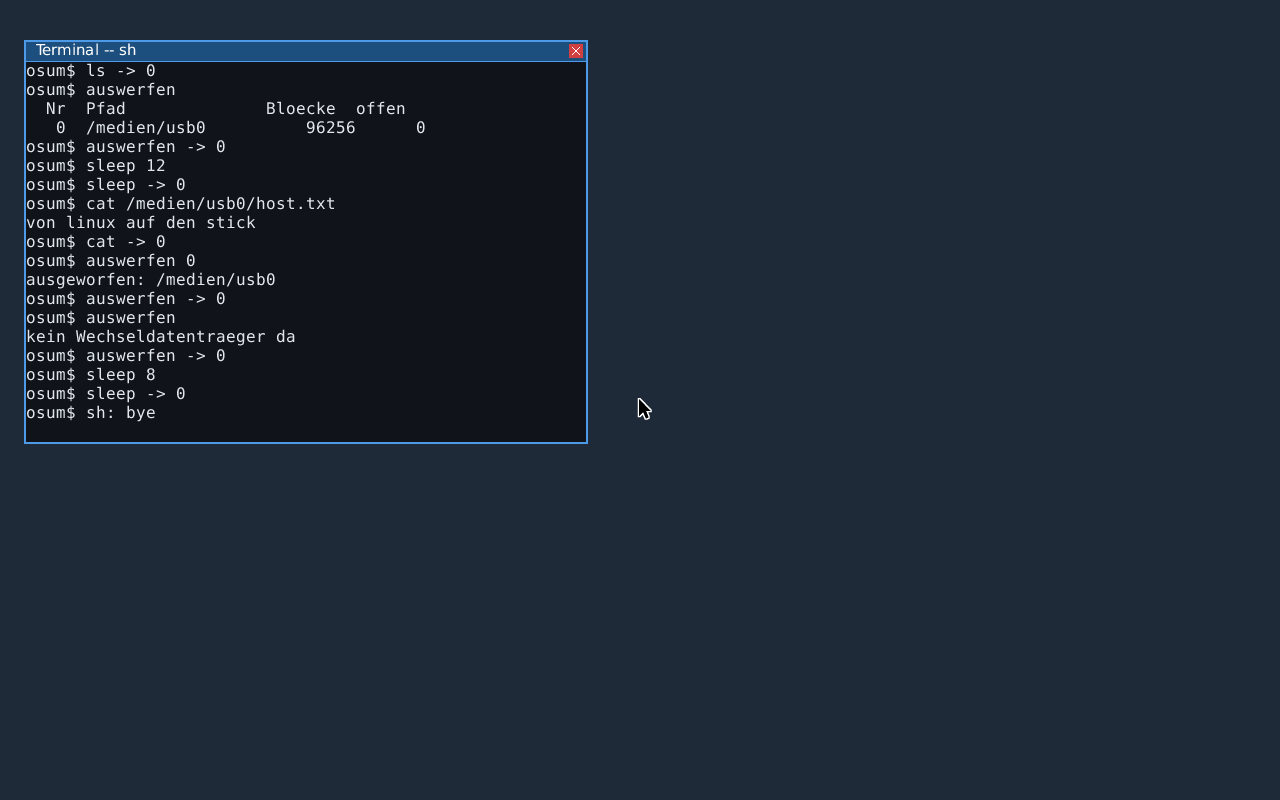
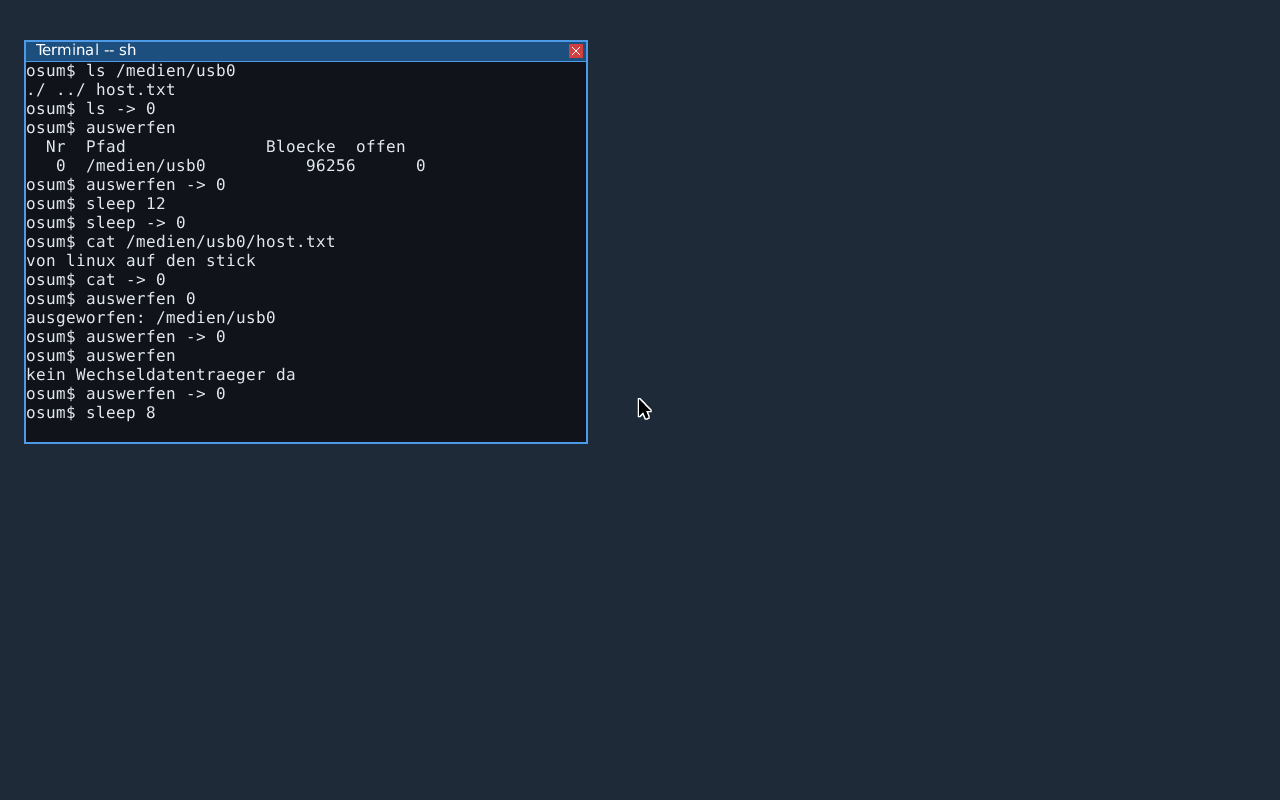
Die Bilder mit dem endgueltigen Kern, und die Regressionsprobe im Bericht
K17: 156 passed, 2 failed -- dieselben zwei wie in der Grundlinie vor
dieser Runde, Oktett fuer Oktett. HOTPLUG: 33/0.

Changed region(s): [[0.0, 0.0625, 0.25, 0.5312], [0.2188, 0.125, 0.3125, 0.2188]]

diff --git a/docs/HOTPLUG.md b/docs/HOTPLUG.md
@@ -224,6 +224,30 @@ und berührt drei Schichten.
   baut seine Seitenleiste noch beim Aktualisieren neu auf, statt auf die
   Meldung zu hören.
 
+### Keine Regression
+
+`bash tools/k17/run.sh` — **156 passed, 2 failed**, und das sind
+**dieselben zwei** wie in der Grundlinie vor dieser Runde, Oktett für
+Oktett (eine Zeitmessung am Tastenweg und ihre Gegenprobe; beide hängen
+an der Last der Maschine, nicht an dieser Runde).
+
+Dazwischen lag ein Fehler, den erst der Lauf gezeigt hat: der
+Haltepunkt `usb_hold` ist in dieser Runde **zweimal** an die falsche
+Stelle gewandert.
+
+* **Vor `osum`** (wo er herkam): die Wurzel steht noch nicht, ein im
+  Betrieb gesteckter Stick wird aufgezählt und nie eingehängt.
+* **Nach `osum`**: die Shell ist schon **durchgelaufen**. Im Mitschnitt
+  steht `sh: ready` in Zeile 126, `sh: bye` in 164 und `k17: hold` in
+  188 — Abschnitt 3 der Abnahme fiel, und zwar zu Recht.
+
+Richtig ist **in** `osum`, hinter `usb_mount` und vor dem ersten
+Prozess: dort ist die Wurzel eingehängt, `/medien` liegt da, und es
+läuft noch niemand. Dazu ein Rückfall hinter `osum` in `kernel_main`,
+weil `osum` an drei Stellen früh zurückkehrt — eine davon ist das
+fehlende Wort `osum` selbst, und genau damit fährt der Mauslauf von
+K17. `usb_hold` hält deshalb **genau einmal** (`hold_getan`).
+
 ---
 
 ## Die Bilder
@@ -250,9 +274,9 @@ Fensterinhalt (x 27..560, y 63..425):
 ```
 10-vorher:  10767 helle Punkte (Text)
 20-steckt:   8670
-30-danach:   7422
+30-danach:   7541
 Unterschied 10 gegen 20:  Rechteck (27,63)-(555,422)
-Unterschied 20 gegen 30:  Rechteck (26,63)-(425,422)
+Unterschied 20 gegen 30:  Rechteck (26,63)-(425,419)
 ```
 
 Ein einzelnes Bild mit einer Zeile darauf könnte immer dagestanden
